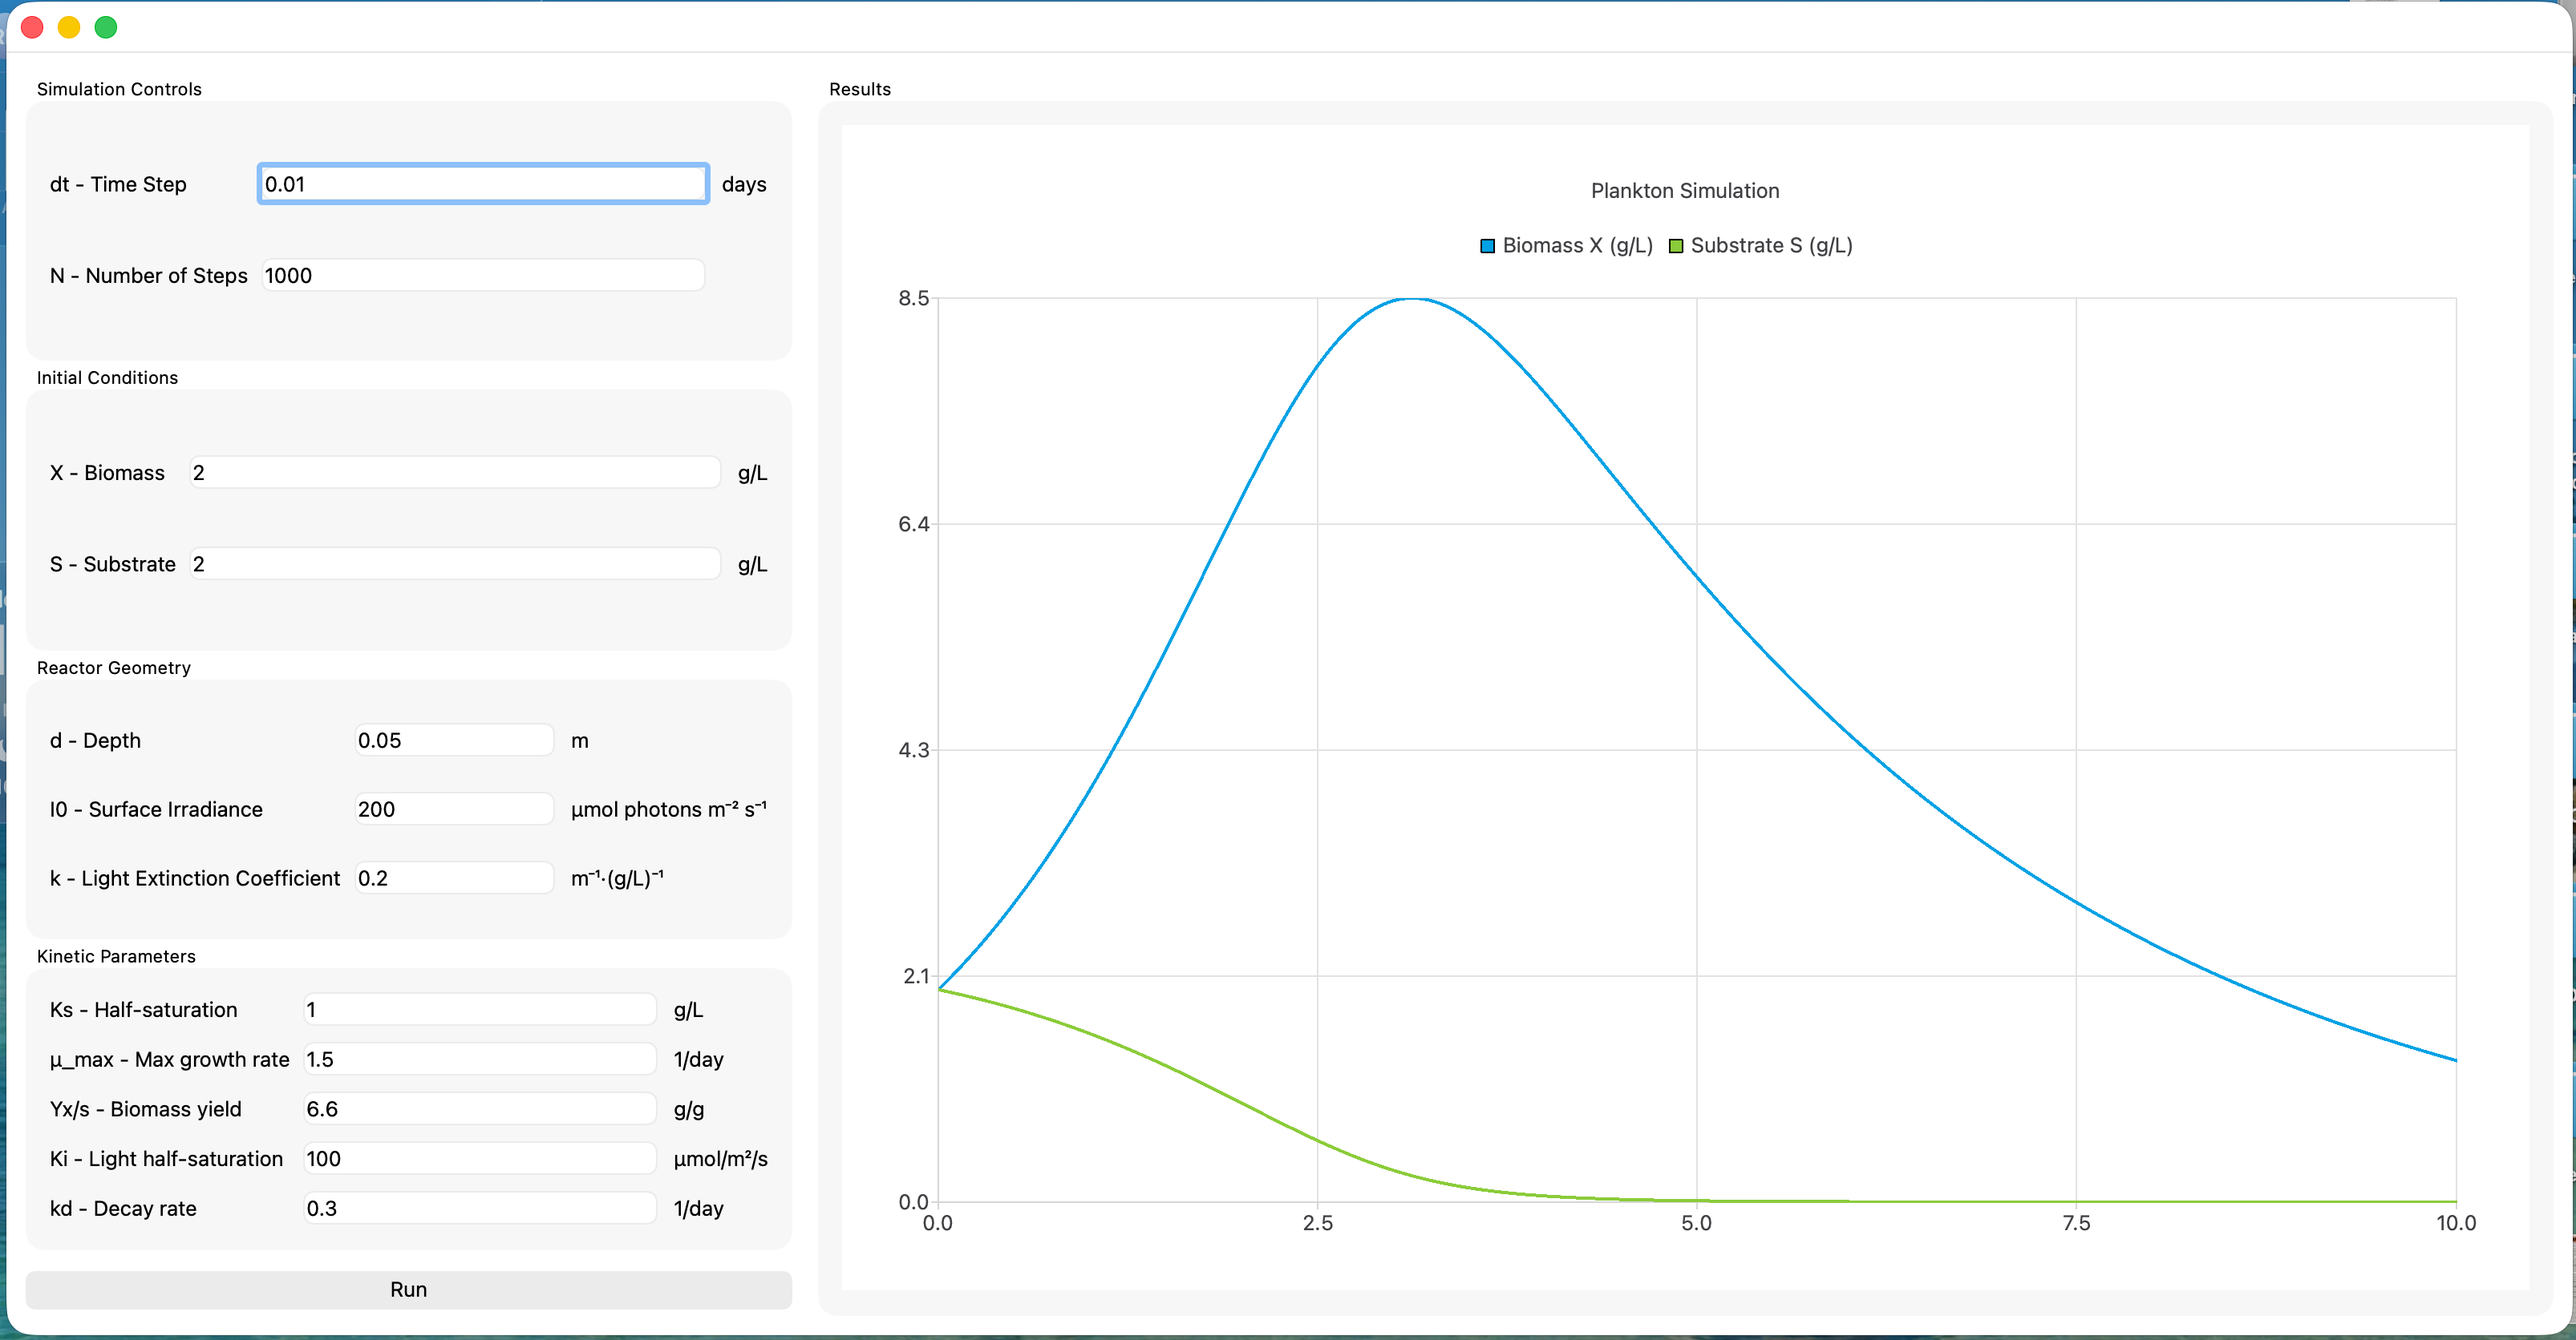
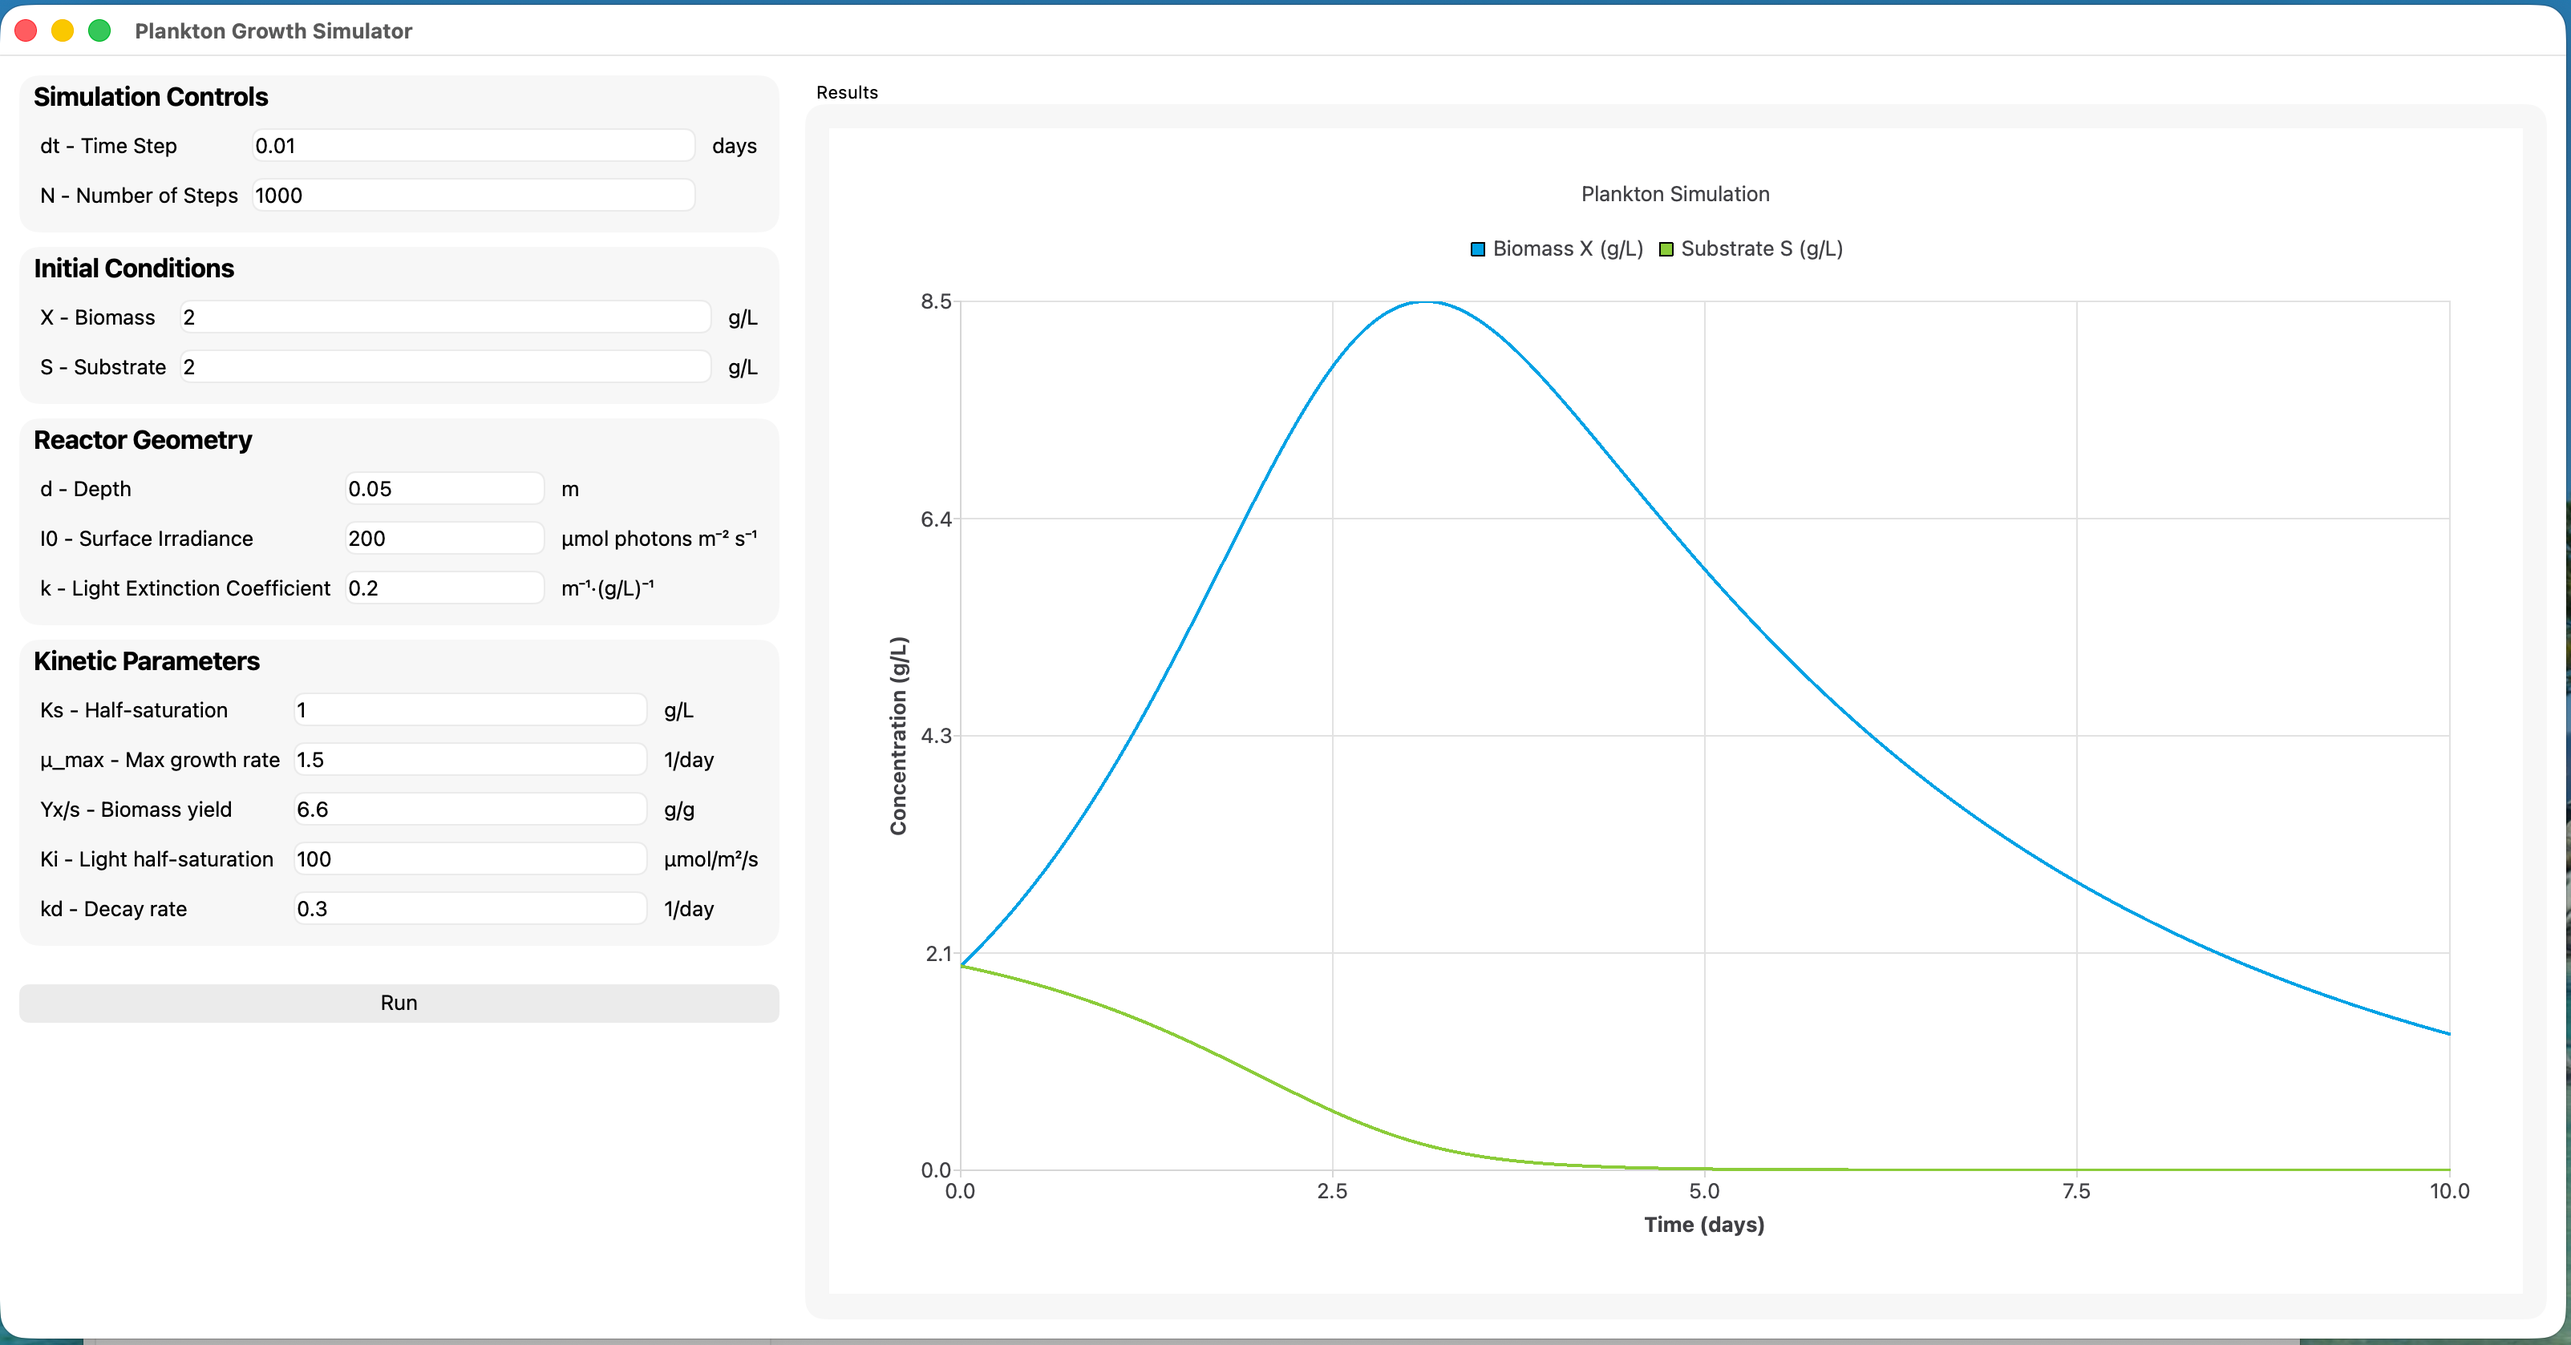
Update README with detailed model equations and explanations. Enhance GUI: set window title, tweak input layout spacing/stretch, add axis labels to results chart, and improve ParameterPanel styling with font/size adjustments.

diff --git a/gui/src/ParameterPanel.cpp b/gui/src/ParameterPanel.cpp
@@ -2,17 +2,21 @@
 
 #include <QLabel>
 
-ParameterPanel::ParameterPanel(QWidget* parent) : QGroupBox(parent), m_row(0) {
+ParameterPanel::ParameterPanel(QWidget *parent) : QGroupBox(parent), m_row(0) {
     this->m_layout = new QGridLayout;
     this->setLayout(this->m_layout);
+    this->setSizePolicy(QSizePolicy::Preferred, QSizePolicy::Maximum);
+    this->setStyleSheet("QGroupBox { font-size: 16px; font-weight: bold; padding-top: 20px; }"
+        "QGroupBox::title { background-color: transparent; }");
 }
 
-QLineEdit* ParameterPanel::addRow(const QString& name,const QString& label, const QString& value, const QString& units) {
-    QLineEdit* ret = new QLineEdit(value);
+QLineEdit *ParameterPanel::addRow(const QString &name, const QString &label, const QString &value,
+                                  const QString &units) {
+    QLineEdit *ret = new QLineEdit(value);
     ret->setObjectName(name);
-    this->m_layout->addWidget( new QLabel(label), this->m_row, 0);
-    this->m_layout->addWidget( ret, this->m_row, 1);
-    this->m_layout->addWidget( new QLabel(units), this->m_row, 2);
+    this->m_layout->addWidget(new QLabel(label), this->m_row, 0);
+    this->m_layout->addWidget(ret, this->m_row, 1);
+    this->m_layout->addWidget(new QLabel(units), this->m_row, 2);
     ++this->m_row;
 
     return ret;

diff --git a/gui/src/MainWindow.cpp b/gui/src/MainWindow.cpp
@@ -5,6 +5,7 @@
 #include <QHBoxLayout>
 
 MainWindow::MainWindow(QWidget *parent)  : QMainWindow(parent) {
+    this->setWindowTitle("Plankton Growth Simulator");
     this->root = new QWidget(this);
     this->controls = new SimulationControlsPanel();
     this->initial = new InitialConditionsPanel();
@@ -22,6 +23,10 @@ MainWindow::MainWindow(QWidget *parent)  : QMainWindow(parent) {
     inputLayout->addWidget(runButton);
     connect(runButton, &QPushButton::clicked
         , this, &MainWindow::runSimulation);
+
+    inputLayout->addStretch(1);
+
+    inputLayout->setSpacing(25);
 
     auto* resultLayout = new QVBoxLayout();
     resultLayout->addWidget(results);

diff --git a/gui/src/Results.cpp b/gui/src/Results.cpp
@@ -52,4 +52,6 @@ void Results::setRecords(double dt, const std::vector<SimulationRecord>& records
     this->chart->addSeries(xSeries);
     this->chart->addSeries(sSeries);
     chart->createDefaultAxes();
+    chart->axes(Qt::Horizontal).first()->setTitleText("Time (days)");
+    chart->axes(Qt::Vertical).first()->setTitleText("Concentration (g/L)");
 }

diff --git a/README.md b/README.md
@@ -146,20 +146,54 @@ All model behavior is validated through unit tests before implementation.
 * [Qt6](https://www.qt.io/) - GUI framework (Widgets, Charts)
 * [CLion](https://www.jetbrains.com/clion/) - Development environment
 
-## Scientific Background
+## Model Description
 
-### Monod Equation
-The Monod equation describes microbial growth rate as a function of limiting substrate concentration:
+### Light-Limited Growth (Liebig's Law)
+Growth rate is governed by whichever of nutrient or light is most limiting:
 
 ```
-µ = µ_max × (S / (K_s + S))
+µ = µ_max × min( S / (Ks + S),  I_avg / (Ki + I_avg) )
 ```
 
 Where:
-- µ = specific growth rate (1/h)
-- µ_max = maximum specific growth rate (1/h)
-- S = substrate concentration (g/L)
-- K_s = half-saturation constant (g/L)
+- µ = specific growth rate (1/day)
+- µ_max = maximum specific growth rate (1/day)
+- S = substrate (nutrient) concentration (g/L)
+- Ks = half-saturation constant for nutrient (g/L)
+- I_avg = depth-averaged irradiance (µmol photons m⁻² s⁻¹)
+- Ki = half-saturation constant for light (µmol photons m⁻² s⁻¹)
+
+### Biomass and Substrate Dynamics
+Biomass grows at the net rate (growth minus mortality) and substrate is consumed proportionally:
+
+```
+dX/dt = (µ - kd) × X
+dS/dt = -(µ / Yx_s) × X
+```
+
+Where:
+- X = biomass concentration (g/L)
+- kd = specific decay rate (1/day)
+- Yx_s = biomass yield coefficient (g biomass / g substrate)
+
+### Beer-Lambert Light Attenuation
+The culture self-shades: as biomass X increases, light penetrates less deeply, reducing I_avg, which in turn reduces µ via Liebig's Law. This creates a negative feedback — dense cultures grow more slowly due to light limitation even when nutrients are abundant. Irradiance decays exponentially with depth through the culture:
+
+```
+I(z) = I₀ × exp(-k × X × z)
+```
+
+Depth-averaged over the full reactor:
+
+```
+I_avg = (I₀ / (k × X × d)) × (1 - exp(-k × X × d))
+```
+
+Where:
+- I₀ = surface irradiance (µmol photons m⁻² s⁻¹)
+- k = light extinction coefficient (m⁻¹ · (g/L)⁻¹)
+- d = reactor depth (m)
+- z = depth coordinate (m)
 
 ## Development Roadmap
 
